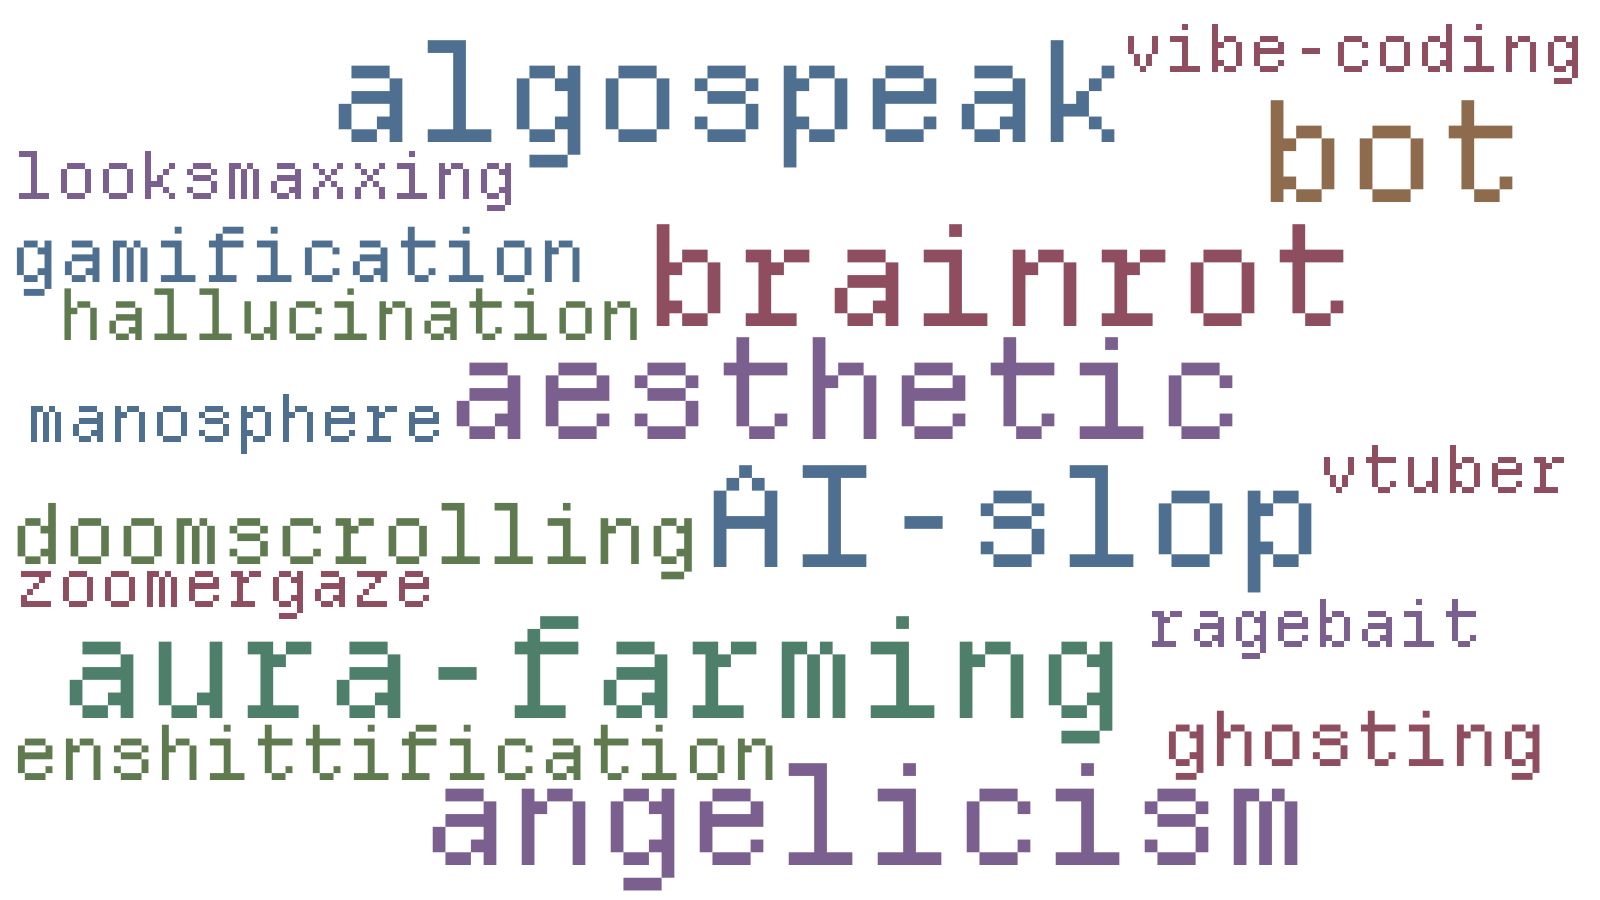
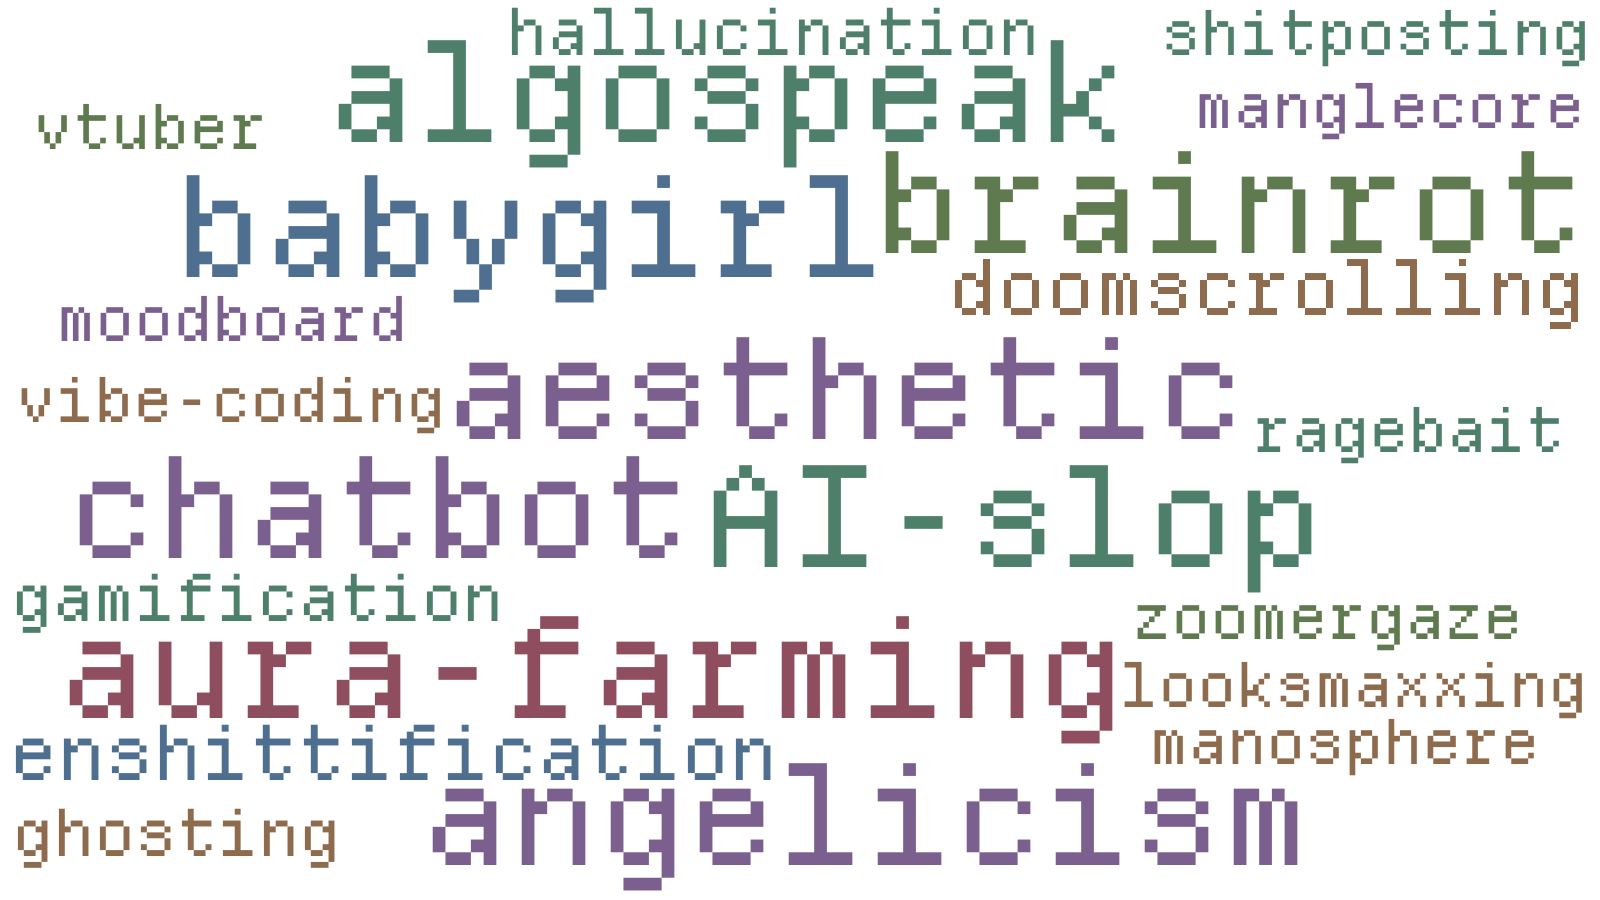
content: add four terms to snapshot and regenerate wordcloud
Add babygirl, manglecore and shitposting, and replace bot with chatbot.

Claude-Session: https://claude.ai/code/session_01FZbiWJKYNuNFowxfrgaHFj

Changed region(s): [[0.0, 0.0, 1.0, 0.8711], [0.0, 0.9022, 0.2188, 0.9644]]

diff --git a/content/snapshot.md b/content/snapshot.md
@@ -10,7 +10,8 @@ date: 2 September 2026
 - AI-slop
 - angelicism
 - aura-farming
-- bot
+- babygirl
+- chatbot
 - brainrot
 - doomscrolling
 - enshittification
@@ -18,9 +19,11 @@ date: 2 September 2026
 - ghosting
 - hallucination
 - looksmaxxing
+- manglecore
 - manosphere
 - moodboard
 - ragebait
+- shitposting
 - vibe-coding
 - vtuber
 - zoomergaze
